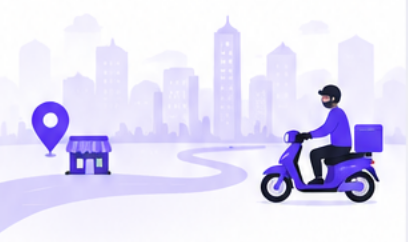
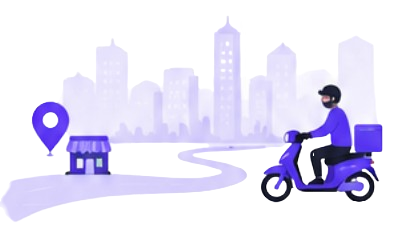
Adição do Drawer

diff --git a/mobile/lib/view/PainelEmpresa.dart b/mobile/lib/view/PainelEmpresa.dart
@@ -12,22 +12,38 @@ class PainelEmpresa extends StatelessWidget {
   Widget build(BuildContext context) {
     return Scaffold(
       appBar: appBarEmpresa,
+      drawer: Drawer(
+        backgroundColor: corSecundaria,
+        child: ListView(
+          padding: EdgeInsets.zero,
+          children: [
+            DrawerHeader(
+              child: Expanded(child: Image.asset('assets/logoRotaJa.png')),
+            ),
+            ListTile(
+              title: Text('Principal'),
+              onTap: () {
+                Navigator.pop(context);
+              },
+            ),
+            ListTile(
+              title: Text('Criar Entrega'),
+              onTap: () {
+                Navigator.pop(context);
+                Navigator.pushReplacement(
+                  context,
+                  MaterialPageRoute(builder: (context) => Entrega()),
+                );
+              },
+            ),
+          ],
+        ),
+      ),
+
       body: Padding(
         padding: EdgeInsets.all(30),
         child: Column(
           children: [
-            SizedBox(
-              height: 70,
-              child: botao(
-                corPrincipal: corPrincipal,
-                corSecundaria: corSecundaria,
-                texto: 'Nova Entrega',
-                icone: Icon(Icons.add),
-                redirecionamento: Entrega(),
-              ),
-            ),
-
-            SizedBox(height: 30),
             Bloco(
               corPrincipal: corBlocos,
               titulo: 'Pedidos ativos',

diff --git a/mobile/lib/view/CriarEntrega.dart b/mobile/lib/view/CriarEntrega.dart
@@ -3,6 +3,7 @@ import 'package:mobile/components/blocos.dart';
 import 'package:mobile/components/botoes.dart';
 import 'package:mobile/components/estilos.dart';
 import 'package:mobile/components/formularios.dart';
+import 'package:mobile/view/PainelEmpresa.dart';
 
 class Entrega extends StatelessWidget {
   const Entrega({super.key});
@@ -20,6 +21,34 @@ class Entrega extends StatelessWidget {
           ),
         ],
       ),
+      drawer: Drawer(
+        backgroundColor: corSecundaria,
+        child: ListView(
+          padding: EdgeInsets.zero,
+          children: [
+            DrawerHeader(
+              child: Expanded(child: Image.asset('assets/logoRotaJa.png')),
+            ),
+            ListTile(
+              title: Text('Principal'),
+              onTap: () {
+                Navigator.pop(context);
+                Navigator.pushReplacement(
+                  context,
+                  MaterialPageRoute(builder: (context) => PainelEmpresa()),
+                );
+              },
+            ),
+            ListTile(
+              title: Text('Criar Entrega'),
+              onTap: () {
+                Navigator.pop(context);
+              },
+            ),
+          ],
+        ),
+      ),
+
       body: Padding(
         padding: EdgeInsets.all(10),
         child: Column(

diff --git a/mobile/lib/components/appbar.dart b/mobile/lib/components/appbar.dart
@@ -10,8 +10,7 @@ AppBar appBarEntregador = AppBar(
         padding: EdgeInsetsGeometry.fromLTRB(10, 3, 10, 0),
         child: Row(
           children: [
-            Icon(Icons.menu),
-            SizedBox(width: 30),
+            SizedBox(width: 50),
             Column(
               mainAxisAlignment: MainAxisAlignment.center,
               crossAxisAlignment: CrossAxisAlignment.start,
@@ -23,8 +22,6 @@ AppBar appBarEntregador = AppBar(
                 Text('Pronto para entregar?', style: TextStyle(fontSize: 13)),
               ],
             ),
-            Spacer(),
-            Icon(Icons.notifications),
           ],
         ),
       ),
@@ -41,8 +38,7 @@ AppBar appBarEmpresa = AppBar(
         padding: EdgeInsetsGeometry.fromLTRB(10, 3, 10, 0),
         child: Row(
           children: [
-            Icon(Icons.menu),
-            SizedBox(width: 30),
+            SizedBox(width: 50),
             Column(
               mainAxisAlignment: MainAxisAlignment.center,
               crossAxisAlignment: CrossAxisAlignment.start,
@@ -57,8 +53,6 @@ AppBar appBarEmpresa = AppBar(
                 ),
               ],
             ),
-            Spacer(),
-            Icon(Icons.notifications),
           ],
         ),
       ),

diff --git a/mobile/lib/view/PainelEntregador.dart b/mobile/lib/view/PainelEntregador.dart
@@ -10,6 +10,25 @@ class PainelEntregador extends StatelessWidget {
   Widget build(BuildContext context) {
     return Scaffold(
       appBar: appBarEntregador,
+      drawer: Drawer(
+       backgroundColor: corSecundaria,
+   child: ListView(
+     padding: EdgeInsets.zero,
+     children: [
+        DrawerHeader(
+         child:
+         Expanded(child: Image.asset('assets/logoRotaJa.png'),),
+       ),
+       ListTile(
+         title:  Text('Principal'),
+         onTap: () {
+           Navigator.pop(context);
+         },
+       ),
+     ],
+   ),
+ ), 
+
       body: Padding(
         padding: EdgeInsets.all(30),
         child: ListView(

diff --git a/mobile/lib/view/Inicial.dart b/mobile/lib/view/Inicial.dart
@@ -26,11 +26,7 @@ class Inicial extends StatelessWidget {
             ),
           ),
           Expanded(
-            child: Image.asset(
-              'assets/imagemFundo.png',
-              fit: BoxFit.fill,
-              width: double.infinity,
-            ),
+            child: Image.asset('assets/imagemFundo.png', fit: BoxFit.fitHeight),
           ),
 
           Expanded(
